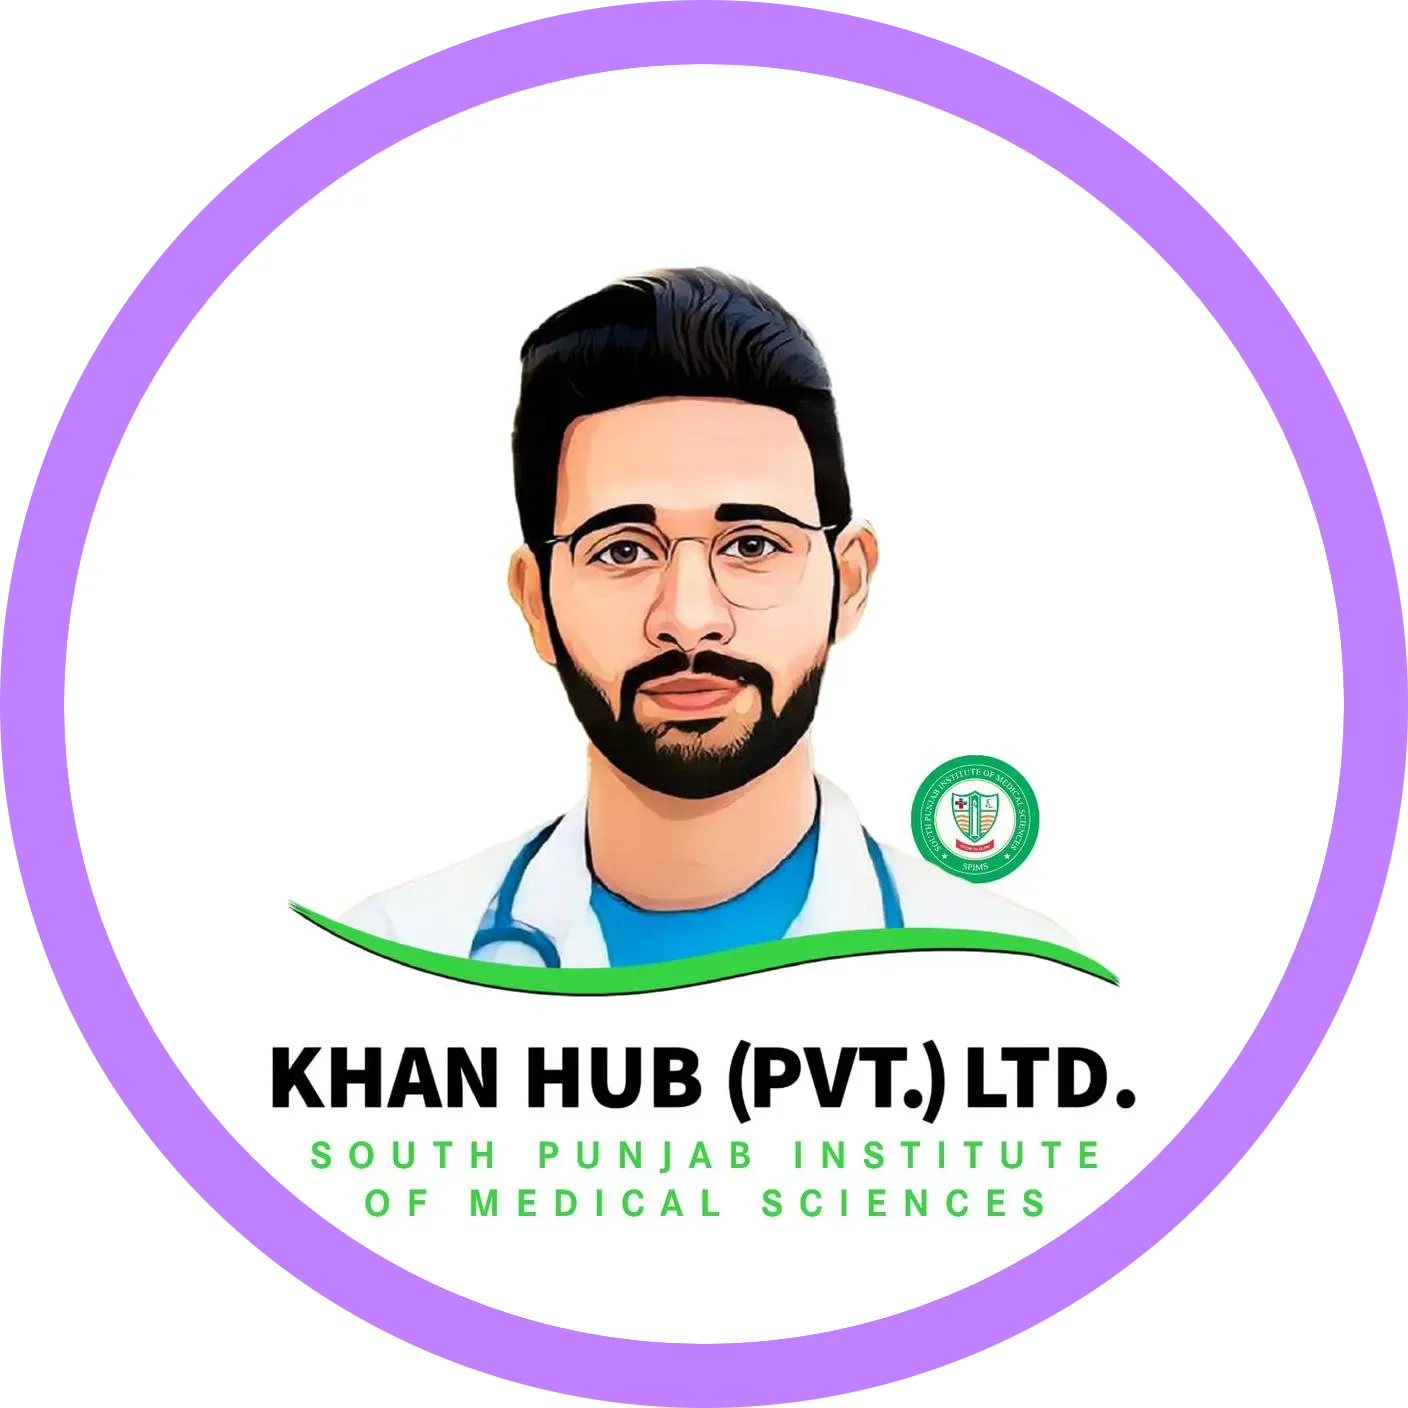
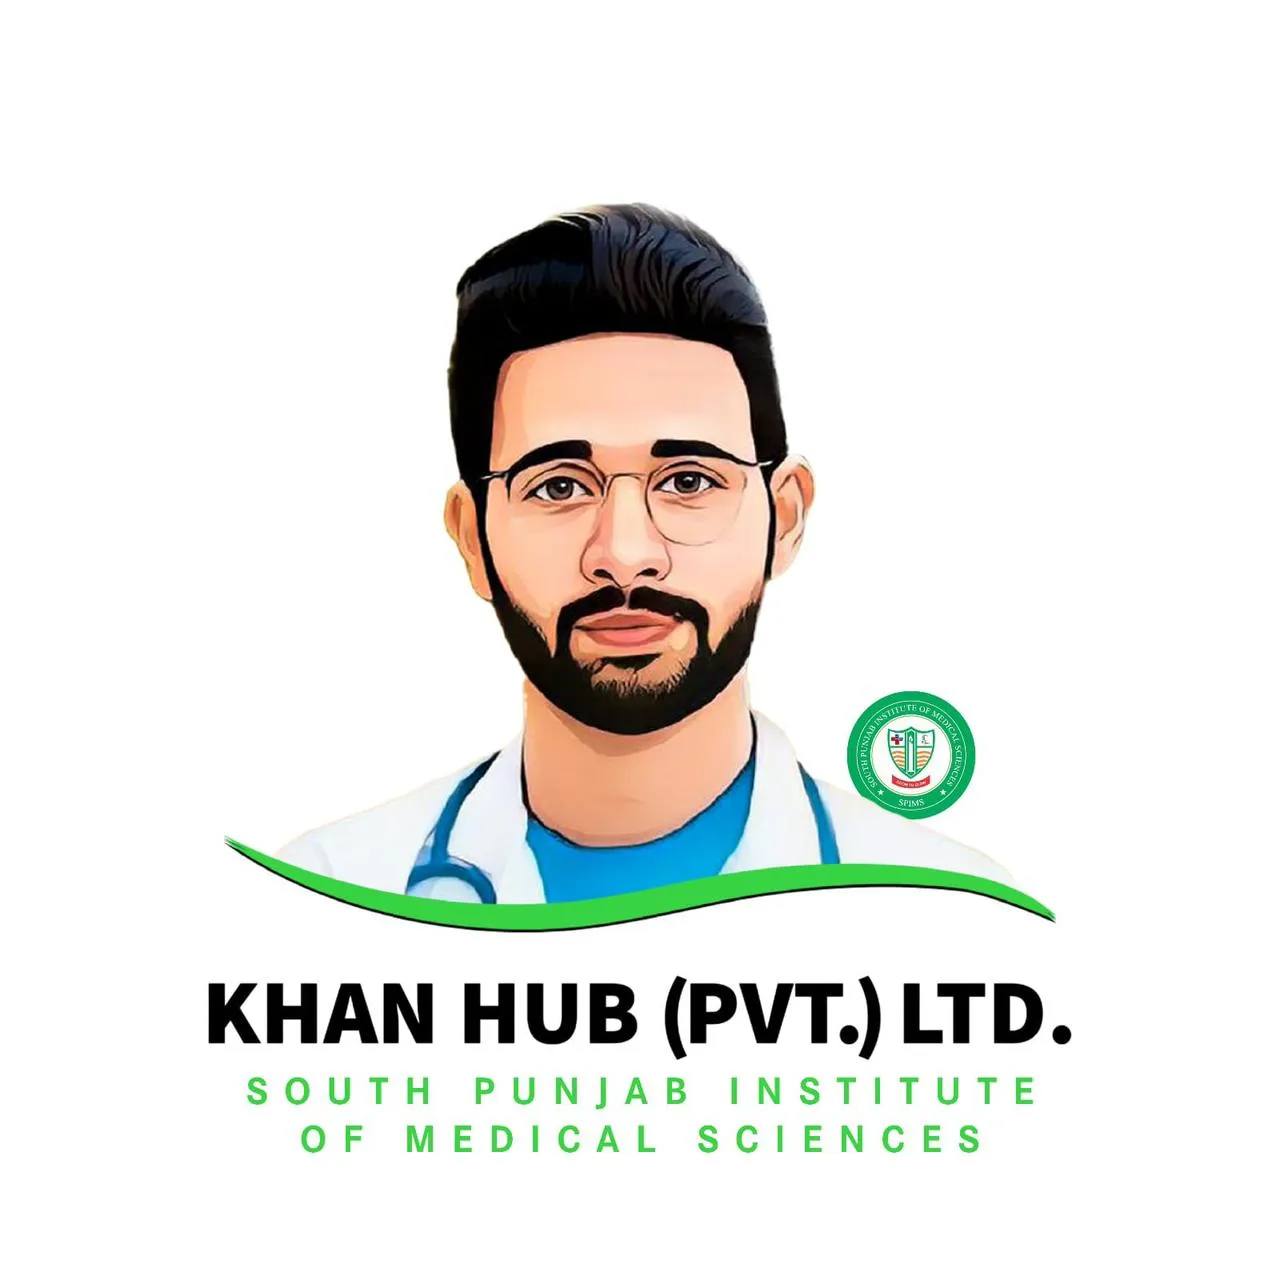
ui: implement perfect circle UI fixes in HeroSection

Changed region(s): [[0.0, 0.0, 1.0, 1.0]]

diff --git a/apps/web/src/components/sections/HeroSection.tsx b/apps/web/src/components/sections/HeroSection.tsx
@@ -144,7 +144,7 @@ const ImageCarousel = memo(function ImageCarousel() {
           className="absolute inset-0 rounded-full"
         >
           {!imageErrors.has(currentIndex) ? (
-            <div className="relative w-full h-full rounded-full overflow-hidden filter drop-shadow-xl">
+            <div className="w-full h-full rounded-full overflow-hidden relative filter drop-shadow-[0_20px_40px_rgba(0,0,0,0.15)]">
               <Image
                 src={DEPARTMENT_IMAGES[currentIndex].src}
                 alt={`${DEPARTMENT_IMAGES[currentIndex].alt} - Khan Hub Department`}
@@ -371,19 +371,21 @@ export default function HeroSection() {
                 </motion.div>
               </div>
 
-              {/* Optimized Pulsing Glow */}
-              <motion.div
-                className="absolute inset-0 -m-8 sm:-m-12 bg-gradient-to-br from-primary-200/40 via-success-200/40 to-primary-200/40 rounded-full blur-3xl"
-                animate={{
-                  scale: [1, 1.2, 1],
-                  opacity: [0.4, 0.6, 0.4],
-                }}
-                transition={{
-                  duration: 4,
-                  repeat: Infinity,
-                  ease: "easeInOut"
-                }}
-              />
+              {/* Optimized Pulsing Glow - Wrapped in circular mask to prevent square blur bleed */}
+              <div className="absolute inset-0 -m-8 sm:-m-12 rounded-full overflow-hidden">
+                <motion.div
+                  className="w-full h-full bg-gradient-to-br from-primary-200/40 via-success-200/40 to-primary-200/40 blur-3xl"
+                  animate={{
+                    scale: [1, 1.2, 1],
+                    opacity: [0.4, 0.6, 0.4],
+                  }}
+                  transition={{
+                    duration: 4,
+                    repeat: Infinity,
+                    ease: "easeInOut"
+                  }}
+                />
+              </div>
 
               {/* Main Logo Carousel with Float Animation */}
               <motion.div
@@ -396,7 +398,7 @@ export default function HeroSection() {
                 className="relative z-10"
               >
                 {/* Logo Backdrop */}
-                <div className="absolute inset-0 -m-6 sm:-m-12 rounded-full overflow-hidden bg-white/40 backdrop-blur-[2px] border border-white/20 filter drop-shadow-xl" />
+                <div className="absolute inset-0 -m-6 sm:-m-12 rounded-full overflow-hidden bg-white/40 backdrop-blur-[2px] border border-white/20" />
 
                 {/* Image Carousel */}
                 <ImageCarousel />
